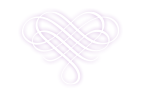
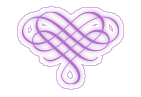
elove template 5 bug fixed

diff --git a/WebContent/css/customer/elove-info-5.css b/WebContent/css/customer/elove-info-5.css
@@ -72,7 +72,7 @@
   margin: 0 auto;
 }
 .info-content > p > a {
-  color: #f9edfb;
+  color: #b16fc9;
 }
 .btn-block {
   width: 60%;
